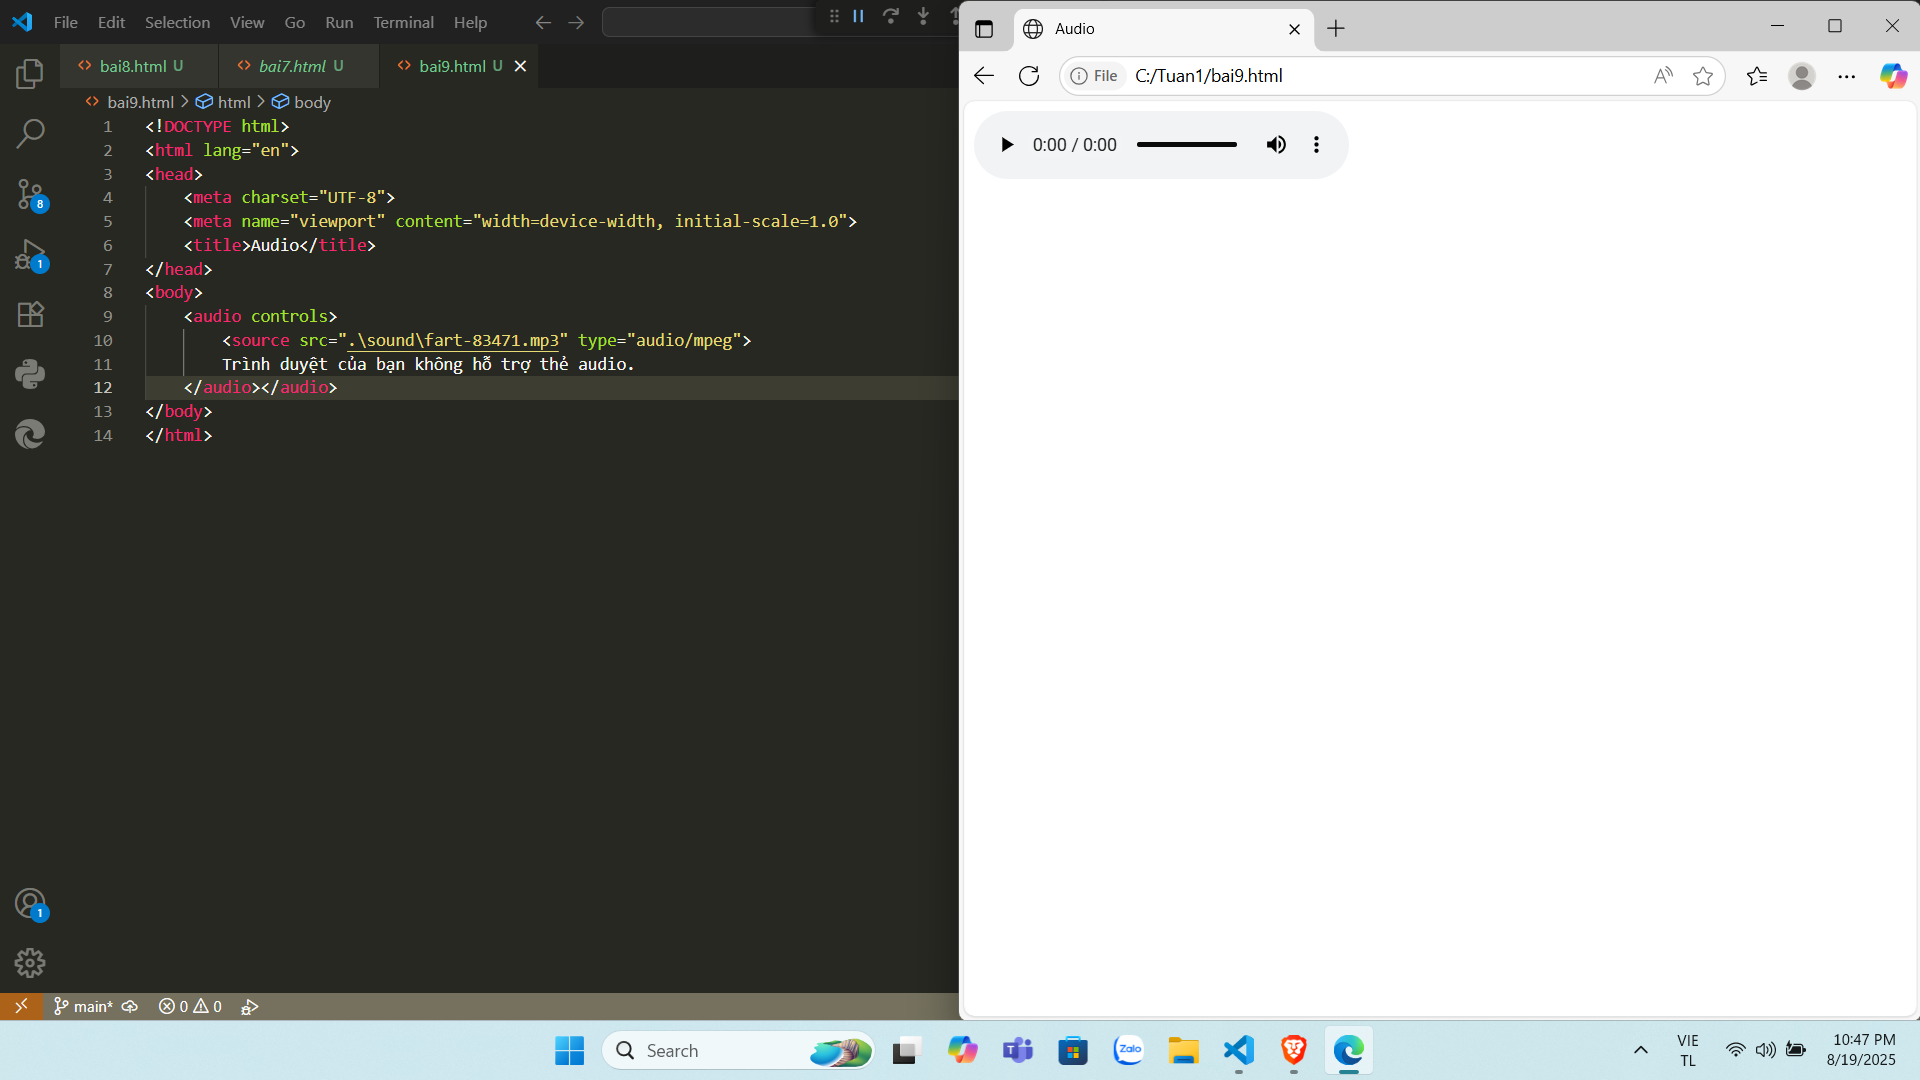
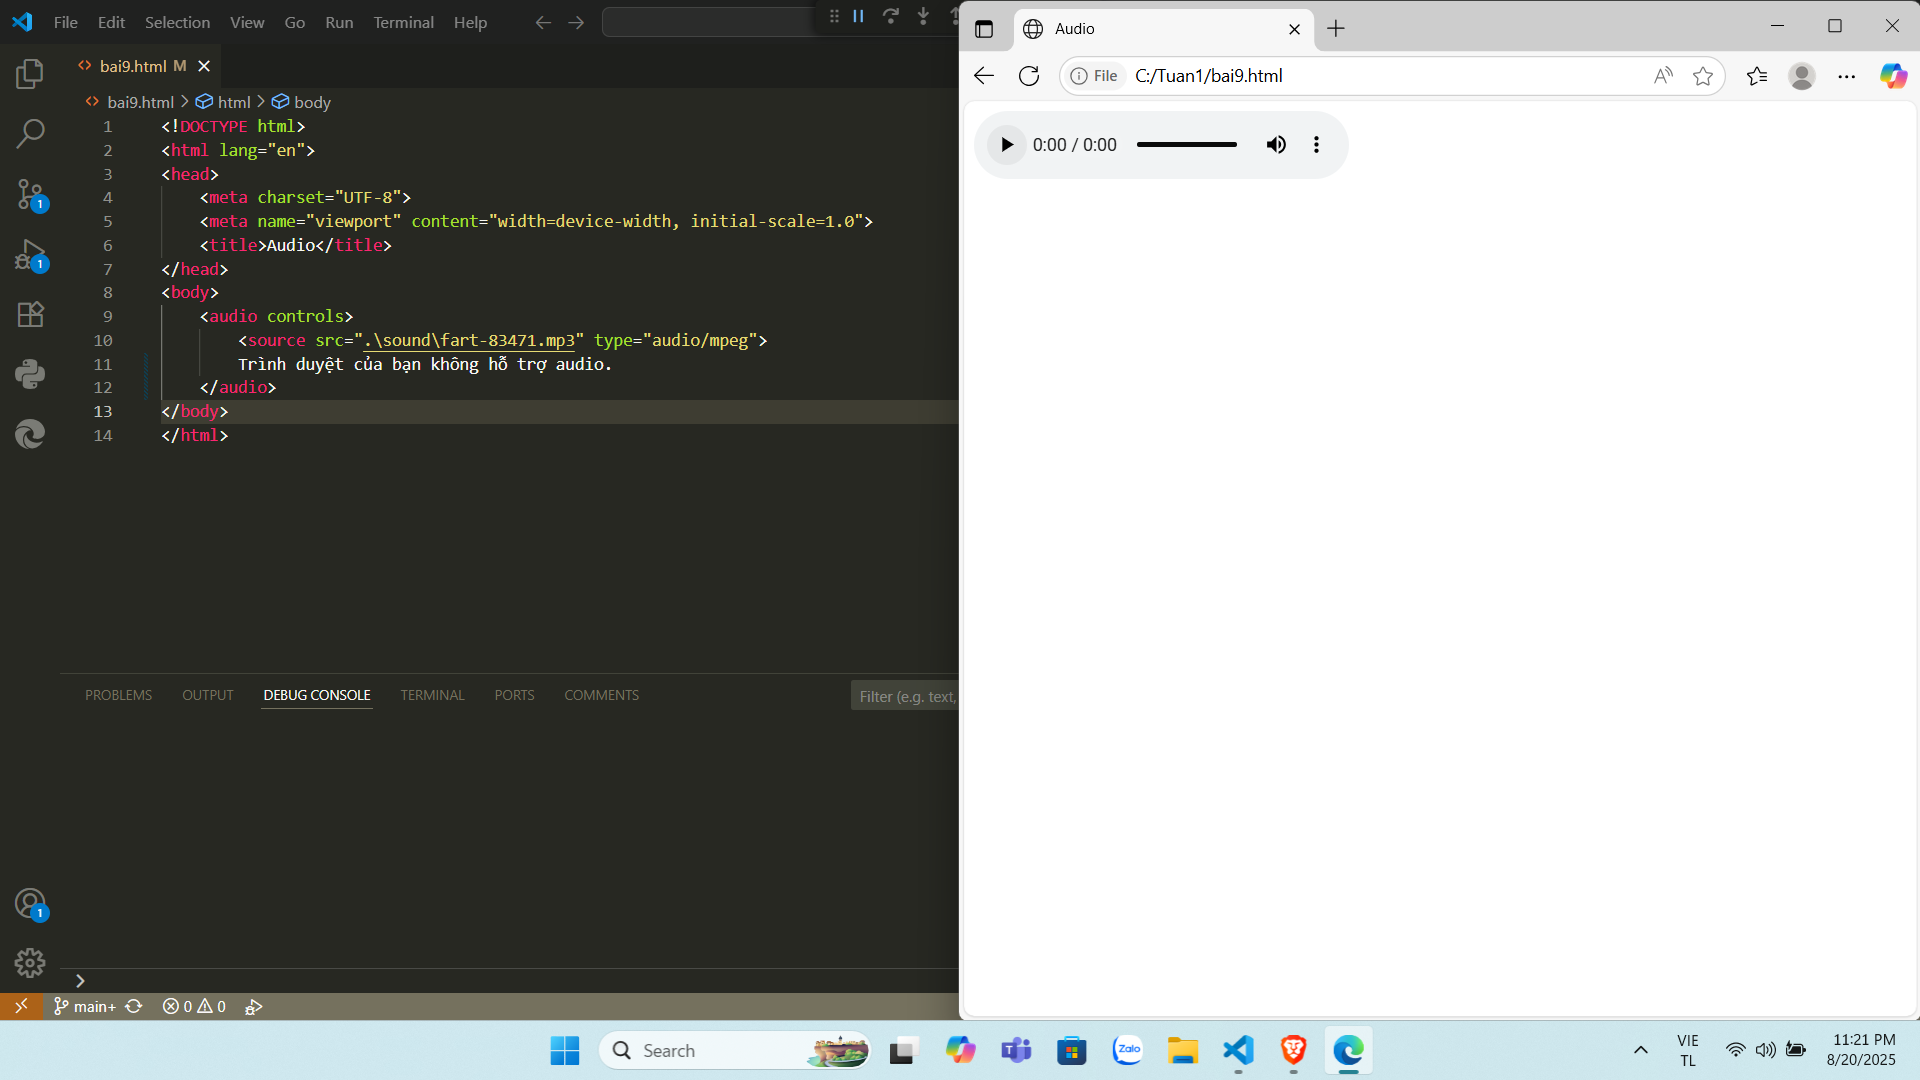
sua bai 9 va add bai 11-15

diff --git a/bai9.html b/bai9.html
@@ -8,7 +8,7 @@
 <body>
     <audio controls>
         <source src=".\sound\fart-83471.mp3" type="audio/mpeg">
-        Trình duyệt của bạn không hỗ trợ thẻ audio.
-    </audio></audio>
+        Trình duyệt của bạn không hỗ trợ audio.
+    </audio>
 </body>
 </html>
